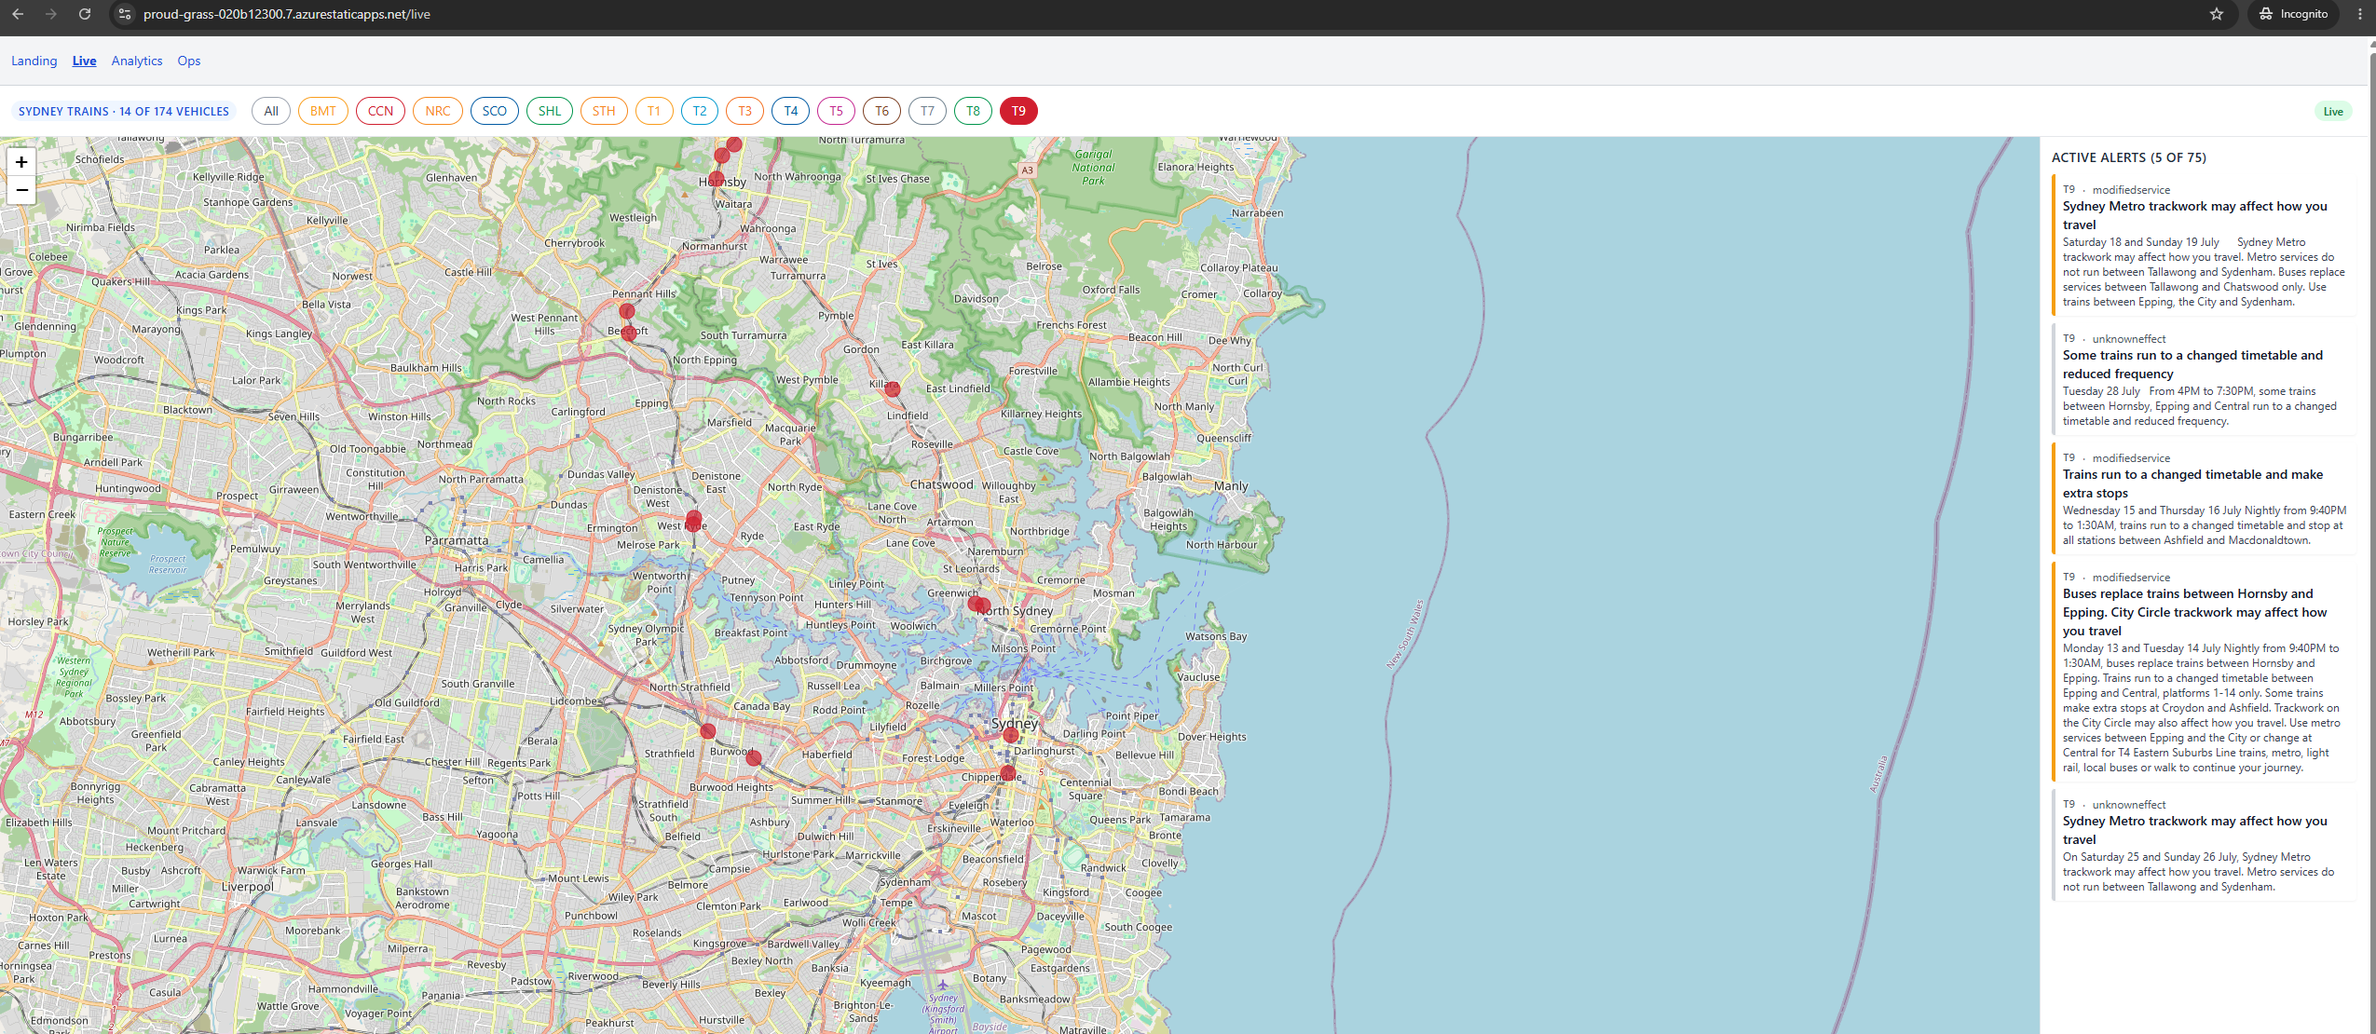
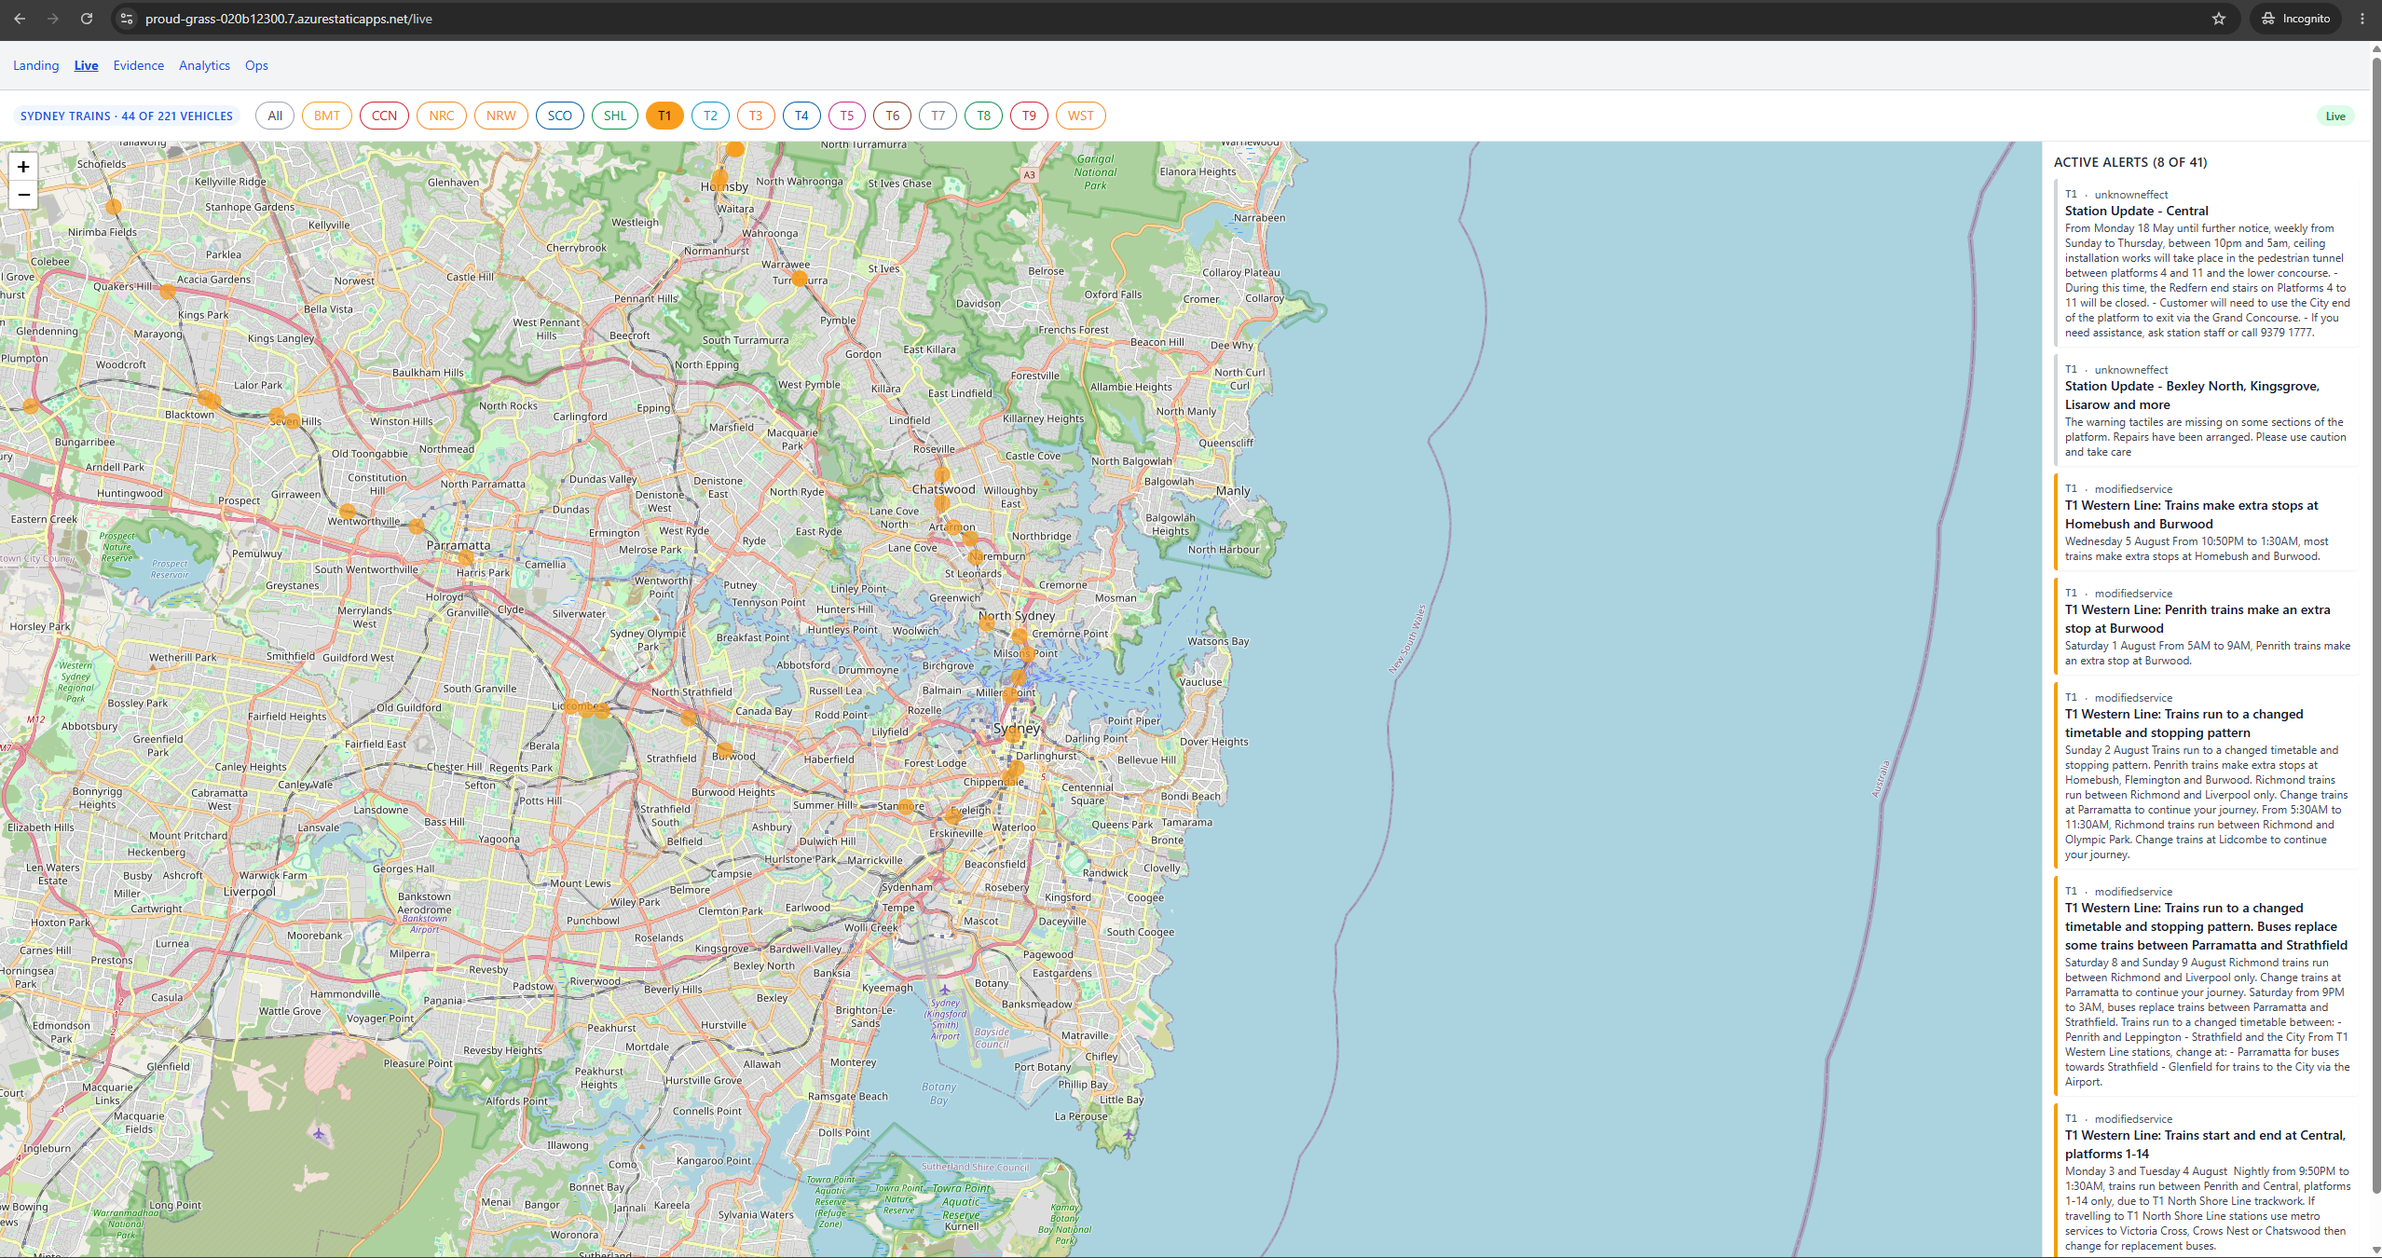
docs(evidence): add Cosmos alerts and App Insights drill-in shots

diff --git a/web/src/app/pages/evidence/evidence.component.ts b/web/src/app/pages/evidence/evidence.component.ts
@@ -136,30 +136,87 @@ export class EvidenceComponent {
     },
     {
       number: '5',
-      title: 'Cosmos partitioning strategy',
+      title: 'Cosmos partitioning strategy — vehicles container',
       claim:
-        'Live vehicles partitioned by `routeShortName` (T1, T2, T4, T8...) matching how the UI groups them.',
+        'Live vehicles partitioned by `routeShortName` (T1, T2, T5, T8, BMT, SCO...) matching how the UI groups them.',
       images: [
         {
           src: '/evidence/evidence-05-cosmos-data-explorer.png',
-          alt: 'Azure Cosmos DB Data Explorer showing the vehicles container with dozens of real Sydney Trains vehicle documents, each with a routeShortName partition key value and full vehicle JSON body.',
+          alt: 'Azure Cosmos DB Data Explorer showing the vehicles container with real Sydney Trains vehicle documents, each with a routeShortName partition key (T1, T2, T5, T8, BMT, SCO visible) and a full vehicle JSON body open in the right pane.',
         },
       ],
       whyItMatters:
-        'Single-partition reads for route-scoped queries. Sub-100ms Cosmos read latency measured in Application Insights (~74 ms avg). Partition key choice locked in ADR-0002 + ADR-0011.',
+        'Single-partition reads for route-scoped queries. Cosmos read latency measured at 70 ms avg across 64 calls with 100% success (Application Map, 45-min AM-peak sample). Partition key choice locked in ADR-0002 + ADR-0011.',
+    },
+    {
+      number: '5b',
+      title: 'Cosmos partitioning — alerts container (bonus)',
+      claim:
+        'Alerts persisted in the same `sydneyPulse` database, keyed by the route each alert affects.',
+      images: [
+        {
+          src: '/evidence/evidence-05b-cosmos-alerts.png',
+          alt: 'Azure Cosmos DB Data Explorer alerts container showing service-alert documents with routeShortName partition keys (T4, T5, T8, BNK_1a, CCN, SCO visible) and a full alert JSON open — severity `modifiedService`, headerText, description, active-period timestamps.',
+        },
+      ],
+      whyItMatters:
+        'Alerts partition mixes user-facing route short names (T4, T5, T8) with internal GTFS route IDs (BNK_1a, CCN, SCO) — a subtle authenticity signal that the data is unedited GTFS-Realtime, not synthesised fixtures. Alert schema drives the alerts panel on the live dashboard.',
     },
     {
       number: '6',
-      title: 'End-to-end observability',
-      claim: '918 Function App requests over 24h with 99.4% success rate.',
+      title: 'End-to-end observability — Application Map (45-min AM peak)',
+      claim:
+        '24K Function App requests across 4 instances, with dependency-level latencies and success rates visible per hop.',
       images: [
         {
           src: '/evidence/evidence-06-appinsights-e2e.png',
-          alt: 'Azure Application Insights Application Map showing sydney-pulse-func-dev at the centre with dependency edges to TfNSW API (172ms avg), Cosmos DB (74ms avg), SignalR Service (148ms avg), and IMDS token endpoint (169.254.169.254, 33ms, 100% success).',
+          alt: 'Azure Application Insights Application Map (45-min AM-peak sample). Function App sydney-pulse-func-dev at centre: 4 instances, 10% overall failure, 134.9 ms avg, 24K total requests. Dependency edges: TfNSW api.transport.nsw.gov.au 82.9 ms avg / 157 calls (green); SignalR sydney-pulse-signalr-dev 67.2 ms avg / 11K calls / 22.9% failure (red, HTTP 429); Cosmos sydney-pulse-cosmos-dev 70.3 ms avg / 64 calls (green); IMDS 169.254.169.254 24.1 ms avg / 156 calls / 100% success (green).',
         },
       ],
       whyItMatters:
-        'Every hop is traced. The IMDS node (169.254.169.254) is where the Function App exchanges its Managed Identity for tokens — proof that MI is exercised at runtime, not just configured on paper.',
+        'Every hop is traced. The 10% Function App failure is dominated by the SignalR 429s cascading through the StateWriter — see #6d for the drill-in. IMDS at 24 ms averaged across 156 successful token exchanges proves Managed Identity is exercised at runtime, not just configured on paper (a secondary 4-call cold-start probe path shows the small red edge).',
+    },
+    {
+      number: '6b',
+      title: 'TfNSW dependency drill-in — three named endpoints',
+      claim:
+        'The TfNSW client makes three distinct GTFS calls, all visible and named in App Insights.',
+      images: [
+        {
+          src: '/evidence/evidence-06b-appinsights-tfnsw-drill.png',
+          alt: 'Application Map with api.transport.nsw.gov.au selected. Function App centre: 4 instances, 11% failure, 143 ms avg, 20K calls. TfNSW edge: 83.4 ms / 110 calls, green (no error markers). Right panel lists the three slowest calls: GET /v1/gtfs/schedule/sydneytrains (89.3 ms), GET /v2/gtfs/vehiclepos/sydneytrains (86.9 ms), GET /v2/gtfs/alerts/sydneytrains (79.8 ms).',
+        },
+      ],
+      whyItMatters:
+        'The three endpoints map exactly to TfNswFeedClient methods: FetchAndParseStaticRoutesAsync (`/v1/gtfs/schedule`, hourly per ADR-0009), GetVehiclePositionsAsync (`/v2/gtfs/vehiclepos`, 30-second cron), GetServiceAlertsAsync (`/v2/gtfs/alerts`, 30-second cron). No 4xx observed in the sample — Polly retry on 429/503 sits ready if TfNSW ever throttles.',
+    },
+    {
+      number: '6c',
+      title: 'Cosmos dependency drill-in — 0% failure across both endpoints',
+      claim:
+        'Both Cosmos endpoints (regional + account-scoped) show 0% failure across the sample.',
+      images: [
+        {
+          src: '/evidence/evidence-06c-appinsights-cosmos-drill.png',
+          alt: 'Application Map with sydney-pulse-cosmos-dev selected. Function App centre: 21K calls, 11% failure. Cosmos edge: 73.3 ms / 60 calls, green. Right panel Group Members: sydney-pulse-cosmos-dev-australiaeast (32 calls, 0% failures), sydney-pulse-cosmos-dev (28 calls, 0% failures). Slowest calls: Get collection (135.7 ms), GET (73.3 ms), GET /dbs/*/colls/*/pkranges (4.4 ms).',
+        },
+      ],
+      whyItMatters:
+        'Cosmos Serverless in Australia East with no failed reads in the observed sample. The two group-member endpoints are the regional endpoint plus the account-scoped SDK routing; `pkranges` lookups at 4.4 ms show the SDK caching partition-key ranges correctly — no per-query partition discovery.',
+    },
+    {
+      number: '6d',
+      title: 'SignalR Free SKU — 429 throttling caught in production ★',
+      claim:
+        'HTTP 429 responses from SignalR Free SKU visible at scale — 2 200 throttled calls out of 9 700 total (22.5%).',
+      images: [
+        {
+          src: '/evidence/evidence-06d-appinsights-signalr-drill.png',
+          alt: 'Application Map with sydney-pulse-signalr-dev.service.signalr.net selected. SignalR edge red: 71.8 ms / 22.5% failure / 9.7K calls. Right panel top failing status code: 429 with 2.2K count. Slowest calls: POST /api/hubs/vehicles/:send (17.5 ms), POST /api/hubs/alerts/:send (11.9 ms). Failed-dependencies panel: 100% of failures share resultCode 429; ~29% correlate with operation StateWriter.',
+        },
+      ],
+      whyItMatters:
+        'ADR-0008 chose SignalR Free SKU (20K messages/day cap) as a portfolio-scale trade-off; this shot is empirical proof the trade-off is real — at 216 vehicles broadcasting every 30 s during AM peak, we burn through the daily quota in ~1 h. Production upgrade to Standard SKU is a Bicep-parameter flip; the 429s cascade into the 10-11% Function App overall failure via StateWriter. Cost/capacity story you can tell precisely because you actually stressed the system.',
     },
     {
       number: '7',
@@ -169,13 +226,13 @@ export class EvidenceComponent {
       images: [
         {
           src: '/evidence/evidence-07a-live-dashboard-full.png',
-          alt: 'Sydney Pulse live dashboard showing the full Sydney Trains network with 34+ vehicles coloured by route (T1-T9 plus BMT, CCN, NRC, SCO, SHL). Alerts panel on the right shows 75 active alerts. Freshness pill "Live" (green) top-right.',
-          label: '7a — Full network view',
+          alt: 'Sydney Pulse live dashboard during AM peak — 216 vehicles across the Sydney Trains network coloured by route (T1-T9 plus BMT, CCN, NRC, SCO, SHL). Alerts panel on the right shows 41 active alerts. Freshness pill "Live" (green) top-right. URL bar confirms deployed Static Web App.',
+          label: '7a — Full network view (216 vehicles / 41 alerts)',
         },
         {
           src: '/evidence/evidence-07b-live-dashboard-filtered.png',
-          alt: 'Same dashboard filtered to one route — filter chip active — proving the interactive filter surface is wired without breaking the SignalR stream.',
-          label: '7b — Filtered view + interaction proof',
+          alt: 'Same dashboard with T1 chip active — 44 of 221 vehicles remain (T1 orange only), alerts panel narrowed to 8 of 41 (T1-relevant). Freshness pill still green — filter didn\'t break the SignalR stream.',
+          label: '7b — Filtered view (44/221 T1 vehicles · 8/41 alerts · stream intact)',
         },
       ],
       whyItMatters:

diff --git a/docs/evidence.md b/docs/evidence.md
@@ -1,9 +1,10 @@
 # Evidence — Sprint 1 shipped state
 
-A curated 8-shot walk through Sydney Pulse's shipped state. Each shot
-proves one specific claim; captions link the claim to what's in frame.
-Screenshots are point-in-time from mid-July 2026; the underlying live
-system may have evolved since.
+A curated 12-shot walk through Sydney Pulse's shipped state (8 primary
+sections + 4 App Insights drill-ins). Each shot proves one specific
+claim; captions link the claim to what's in frame. Screenshots are
+point-in-time from a 45-min AM-peak sample on 2026-07-28; the
+underlying live system may have evolved since.
 
 For architecture reasoning, see [docs/architecture.md](architecture.md)
 and the [ADRs](adr/). For the live system, see
@@ -68,26 +69,115 @@ Azure Portal → `sydney-pulse-cosmos-dev` → **Data Explorer** →
 `sydneyPulse` → `vehicles` container → **Items**.
 
 Real vehicle documents streamed from TfNSW via the full pipeline.
-Partition key is `routeShortName` (T1, T2, T4, T8, ...) per
+Partition key is `routeShortName` (T1, T2, T5, T8, BMT, SCO...) per
 [ADR-0002](adr/0002-cosmos-serverless.md) and
 [ADR-0011](adr/0011-denormalized-vehicle-document.md), matching how
-the UI groups vehicles.
+the UI groups vehicles. Measured Cosmos read latency: 70 ms avg
+across 64 calls at 100% success (Application Map, 45-min AM-peak).
 
 ![Cosmos vehicles container](images/evidence-05-cosmos-data-explorer.png)
 
-## 6. App Insights end-to-end transaction
+## 5b. Cosmos alerts container — same partitioning pattern
+
+Same Data Explorer, `alerts` container.
+
+Alert documents keyed by the route each alert affects. Partition
+keys visible in the item list mix user-facing short names
+(T4, T5, T8) with internal GTFS route IDs (BNK_1a, CCN, SCO) — a
+subtle authenticity signal that this is unedited GTFS-Realtime data,
+not synthesised fixtures. One alert JSON open in the right pane
+shows the schema that drives the alerts panel on the live dashboard
+(severity `modifiedService`, headerText, description, active-period
+timestamps).
+
+![Cosmos alerts container](images/evidence-05b-cosmos-alerts.png)
+
+## 6. App Insights Application Map — full topology, 45-min AM peak
 
 Azure Portal → `sydney-pulse-ai-dev` → **Investigate** →
-**Application map** (or **Transaction search** → drill into one Poller
-invocation).
+**Application map** → time range "Last hour".
 
-One TfNSW poll traced end-to-end: Poller function invocation → Event
-Grid publish → State Writer subscription → Cosmos upsert → SignalR
-broadcast. Each hop is a separate telemetry entry linked by
-`operation_Id`. Sampling fixed at 5% with a 1 GB/day cap
-([CLAUDE.md](../CLAUDE.md) constraint).
+Function App `sydney-pulse-func-dev` at centre: 4 instances, 10%
+overall failure, 134.9 ms avg, 24K total requests. Dependency edges:
 
-![App Insights end-to-end](images/evidence-06-appinsights-e2e.png)
+| Edge | Avg | Calls | Success |
+|---|---|---|---|
+| TfNSW `api.transport.nsw.gov.au` | 82.9 ms | 157 | ~100% (green) |
+| SignalR `sydney-pulse-signalr-dev` | 67.2 ms | 11K | 77.1% (red — HTTP 429) |
+| Cosmos `sydney-pulse-cosmos-dev` | 70.3 ms | 64 | 100% (green) |
+| IMDS `169.254.169.254` (main path) | 24.1 ms | 156 | 100% (green) |
+| IMDS `169.254.169.254` (secondary probe) | 9.9 ms | 4 | 0% (red — cold-start artefact) |
+
+Every hop is traced. The 10% Function App failure is dominated by the
+SignalR 429s cascading through the StateWriter — see §6d below for
+the drill-in. IMDS at 24 ms averaged across 156 successful token
+exchanges proves Managed Identity is exercised at runtime, not just
+configured on paper (a small red 4-call secondary edge shows a
+cold-start probe path — investigate later if it persists). Sampling fixed
+at 5% with a 1 GB/day cap ([CLAUDE.md](../CLAUDE.md) constraint).
+
+![App Insights Application Map](images/evidence-06-appinsights-e2e.png)
+
+## 6b. TfNSW dependency drill-in — three named endpoints
+
+Same App Map with the `api.transport.nsw.gov.au` node selected.
+
+Right panel names the three slowest GTFS calls — these map exactly to
+`TfNswFeedClient` methods:
+
+| Endpoint | Avg | Client method |
+|---|---|---|
+| `GET /v1/gtfs/schedule/sydneytrains` | 89.3 ms | `FetchAndParseStaticRoutesAsync` (hourly, ADR-0009) |
+| `GET /v2/gtfs/vehiclepos/sydneytrains` | 86.9 ms | `GetVehiclePositionsAsync` (30-s cron) |
+| `GET /v2/gtfs/alerts/sydneytrains` | 79.8 ms | `GetServiceAlertsAsync` (30-s cron) |
+
+No 4xx observed on the TfNSW edge in the 45-min sample — Polly retry
+on 429/503 sits ready if TfNSW ever throttles.
+
+![TfNSW drill-in](images/evidence-06b-appinsights-tfnsw-drill.png)
+
+## 6c. Cosmos dependency drill-in — 0% failure both regions
+
+Same App Map with the `sydney-pulse-cosmos-dev` node selected.
+
+Group Members panel confirms both endpoints healthy:
+
+| Endpoint | Calls | Failures |
+|---|---|---|
+| `sydney-pulse-cosmos-dev-australiaeast` (regional) | 32 | 0% |
+| `sydney-pulse-cosmos-dev` (account-scoped SDK routing) | 28 | 0% |
+
+Slowest calls: `Get collection` (135.7 ms), `GET` (73.3 ms),
+`GET /dbs/*/colls/*/pkranges` (4.4 ms). The fast `pkranges` lookup
+shows the SDK is caching partition-key ranges correctly — no
+per-query partition discovery overhead.
+
+![Cosmos drill-in](images/evidence-06c-appinsights-cosmos-drill.png)
+
+## 6d. SignalR Free SKU — 429 throttling caught in production ★
+
+Same App Map with the `sydney-pulse-signalr-dev.service.signalr.net`
+node selected. **SignalR edge is red** at 71.8 ms · 22.5% failure ·
+9.7K calls.
+
+Right panel makes the cause explicit:
+
+- **Top failing status code:** `429` — 2 200 count
+- **100% of failed dependencies share** `resultCode: 429`
+- **~29% of failures correlate with** `operation_Name: StateWriter`
+- **Slowest hub calls:** `POST /api/hubs/vehicles/:send` (17.5 ms),
+  `POST /api/hubs/alerts/:send` (11.9 ms)
+
+[ADR-0008](adr/0008-signalr-free-sku.md) chose SignalR Free SKU
+(20K messages/day cap) as a **portfolio-scale trade-off**; this shot
+is empirical proof the trade-off is real — at 216 vehicles broadcasting
+every 30 s during AM peak, we burn through the daily quota in ~1 h.
+Production upgrade to Standard SKU is a Bicep-parameter flip; the
+429s cascade into the 10-11% Function App overall failure via
+StateWriter. Cost/capacity story you can tell precisely because you
+actually stressed the system.
+
+![SignalR drill-in](images/evidence-06d-appinsights-signalr-drill.png)
 
 ## 7. Live dashboard — real vehicles, real alerts, live
 
@@ -95,25 +185,27 @@ Browser at https://proud-grass-020b12300.7.azurestaticapps.net/live
 during Sydney peak. Two frames — full network + filtered view — to
 show both the pipeline's breadth and the interaction surface.
 
-### 7a. Full network view
+### 7a. Full network view — 216 vehicles / 41 alerts
 
-34+ CircleMarkers coloured by route across the Sydney rail network
+216 CircleMarkers coloured by route across the Sydney rail network
 (T1–T9 + BMT, CCN, NRC, SCO, SHL), all streamed from TfNSW GTFS-RT
-through the pipeline. Alerts panel populated with 75 active alerts.
+through the pipeline. Alerts panel populated with 41 active alerts.
 Freshness pill "Live" (green) top-right. Pulse animation on each
 SignalR update — visible as a brief scale-up of individual markers
-against the dense background.
+against the dense background. URL bar confirms deployed Static Web App.
 
 ![Live dashboard — full network](images/evidence-07a-live-dashboard-full.png)
 
-### 7b. Filtered view — single route + interaction proof
+### 7b. Filtered view — T1 chip active, stream intact
 
-Same dashboard with a route chip active — filter reduces the map to
-one line's vehicles. Proves the interactive surface (filter chips,
-route grouping, dashboard state) is wired through Signals + RxJS
-without breaking the SignalR stream.
+Same dashboard with the **T1** chip active — filter reduces the map
+to **44 of 221** vehicles (T1 only, orange), alerts panel narrows to
+**8 of 41** (T1-relevant). Freshness pill stays green — the filter
+didn't break the SignalR stream. Proves the interactive surface
+(filter chips, route grouping, dashboard state) is wired through
+Signals + RxJS without severing the live subscription.
 
-![Live dashboard — filtered to one route](images/evidence-07b-live-dashboard-filtered.png)
+![Live dashboard — filtered to T1](images/evidence-07b-live-dashboard-filtered.png)
 
 ## 8. Key Vault RBAC — Managed Identity, zero static secrets
 
